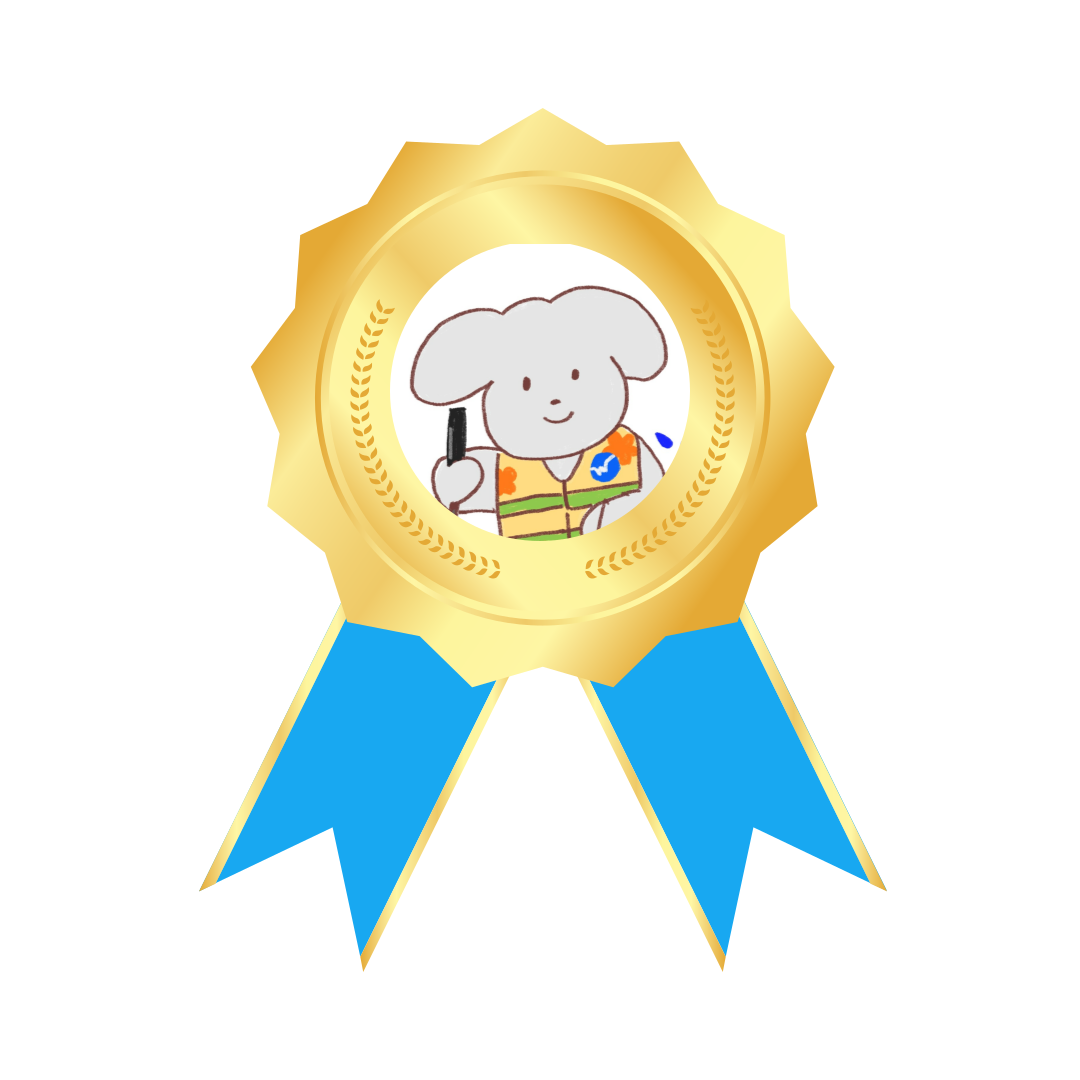
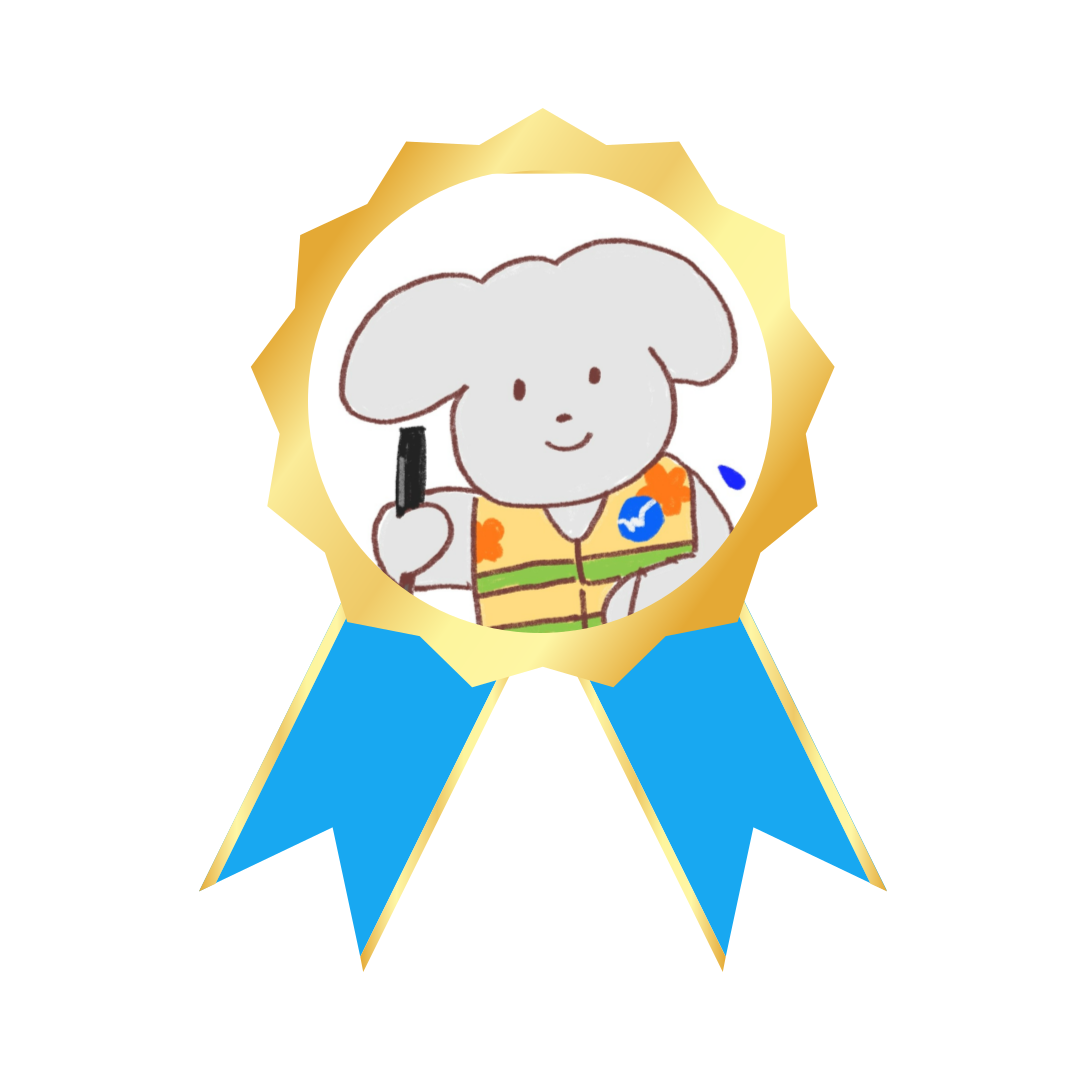
Ella_MODIFY_CSS

Changed region(s): [[0.275, 0.1528, 0.7333, 0.6111]]

diff --git a/src/pages/Map.css b/src/pages/Map.css
@@ -262,9 +262,9 @@
 /* 팝업 이미지 (캐릭터) */
 .certificate-image {
   position: absolute;
-  bottom: -80px;
-  left: -50px;
-  width: 230px;
+  bottom: -60px;
+  left: -30px;
+  width: 200px;
   height: auto;
   z-index: 11; /* 삼각형 위에 배치 */
 }
@@ -286,11 +286,12 @@
 }
 
 .completion-subtext p{
-  font-size: 1rem;
+  font-size: 0.95rem;
   color: black;
   font-family: "LeeSeoyun";
   line-height: 1.5;
   margin-left: 30%;
+  word-wrap: break-word;
 }
 
 /* 버튼 및 배경 애니메이션 컨테이너 */
@@ -453,11 +454,11 @@
   }
 
   .completion-buttons {
-    width: 300px;
+    width: 400px;
   }
 
   .completion-buttons button {
-    font-size: 12px;
+    font-size: 10px;
     padding: 8px;
   }
 
@@ -563,13 +564,16 @@
 /* 버튼 수정  */
 .completion-certificate .certificate-buttons {
   display: flex;
-  justify-content: center;
+  justify-content: space-between;
   gap: 10px;
   margin-top: 20px;
 }
 
 .completion-buttons{
   margin-top: 10%;
+  display: flex;
+  justify-content: center;
+  align-items: center;
 }
 
 /* 버튼 영역 */
@@ -603,13 +607,12 @@
 }
 /* 버튼 공통 스타일 */
 .completion-buttons button {
-  width: 130px; /* 버튼이 부모 컨테이너의 너비에 맞게 확장 */
+  width: 115px; /* 버튼이 부모 컨테이너의 너비에 맞게 확장 */
   max-width: 320px; /* 버튼의 최대 너비 제한 */
-  margin: 0px auto; /* 버튼 간격 및 중앙 정렬 */
   padding: 20px;
   font-size: 13px;
   font-family: "LeeSeoyun";
-  font-weight: bold;
+  /* font-weight: bold; */
   border: black wheat solid;
   border-radius: 8px;
   cursor: pointer;

diff --git a/src/pages/Map.js b/src/pages/Map.js
@@ -244,7 +244,7 @@ function Map() {
               className="certificate-image"
             />
           <h3 className="completion-title">
-            모험 완료 증명서
+            모험 완료 증명서 🏆
           </h3>
           <div class="certificate-details">
             <div>
@@ -254,8 +254,10 @@ function Map() {
           </div>
           <div className="completion-subtext">
             <p>
-              여러분의 노력으로 모든 도전을 <br></br>성공적으로 완료했습니다. <br />
-              2024 한 해 너무 고생많으셨으며, <br></br> 새로운 모험을 기대합니다! <br />
+              모든 도전을 성공적으로 완료하셨습니다! <br />
+              2024 한 해 정말 고생 많으셨습니다. <br /> 
+              다가올 2025, 새로운 모험도 <br /> 멋지게 펼치시길 
+              응원합니다! 💪
             </p>
           </div>
         </div>
@@ -267,10 +269,10 @@ function Map() {
             </button>
             {/* 카카오톡 공유 버튼 */}
             <button onClick={shareOnKakao} className="kakao-share-button">
-              카카오톡 공유하기
+              카카오톡 공유
             </button>
             <button onClick={handleRestart} className="replay-button">
-              처음으로 돌아가기
+              처음으로 
             </button>
           </div>
         </div>

diff --git a/src/pages/Instructions.js b/src/pages/Instructions.js
@@ -19,16 +19,15 @@ function Instructions() {
           오신 것을 환영합니다!
         </h1>
         <p style={styles.description}>
-          2024 한 해 수고하신 H&R 가족들을 위해 <br />
+          2024 한 해 수고하신 <br /> H&R 가족들을 위해 <br />
           준비한 작은 즐거움입니다.
           <br />
           가볍게 즐기며 소소한 재미를 느껴보세요!
         </p>
         <p style={styles.note}>
-          (제작자들이{" "}
-          <span style={styles.note_span}>업무 시간 외에 취미로</span> 만든
-          프로젝트로 <br />
-          재밌게 귀엽게 봐주시길 바랍니다)
+          * 제작자들이{" "}
+          <span style={styles.note_span}>업무 시간 외에 취미로</span> <br />
+          만들었습니다! 귀엽게 봐주세요..🖤 * 
         </p>
         <button
           style={{
@@ -85,7 +84,7 @@ const styles = {
     fontFamily: "LeeSeoyun",
   },
   note: {
-    fontSize: "1rem",
+    fontSize: "0.8rem",
     color: "#7d5a50",
     // fontStyle: "italic",
     marginBottom: "30px",

diff --git a/src/components/quiz/Quiz12.js b/src/components/quiz/Quiz12.js
@@ -43,8 +43,8 @@ export default function Quiz12({ onCorrect, onClose }) {
         icon: "error",
         html: `
         틀렸습니다 😥 
-        다시 시도해보세요! 
-        `,
+        다시 시도해보세요!
+        << 힌트 : 음악 🎷 >> `,
         confirmButtonText: "확인",
       });
     }
@@ -88,7 +88,7 @@ export default function Quiz12({ onCorrect, onClose }) {
           marginBottom: "10px",
         }}
       >
-        한화리조트 해운대에 있는 Instagrammable한 테마 객실 이름은?? (3글자)
+        한화리조트 해운대에 있는 테마 객실 이름은?? (3글자)
       </p>
       <input
         type="text"

diff --git a/public/index.html b/public/index.html
@@ -17,6 +17,9 @@
       name="description"
       content="hnrgift: Discover thoughtful and unique gifts for your loved ones!"
     />
+    <meta property="og:title" content="신비한 호앤리 옷장" />
+    <meta property="og:description" content="궁금하시죠? 들어오세요!" />  
+    <meta property="og:url" content="https://hnrgift.shop" />
     <meta property="og:image" content="%PUBLIC_URL%/logo192.png" />
     <link rel="apple-touch-icon" href="%PUBLIC_URL%/logo192.png" />
     <!--
